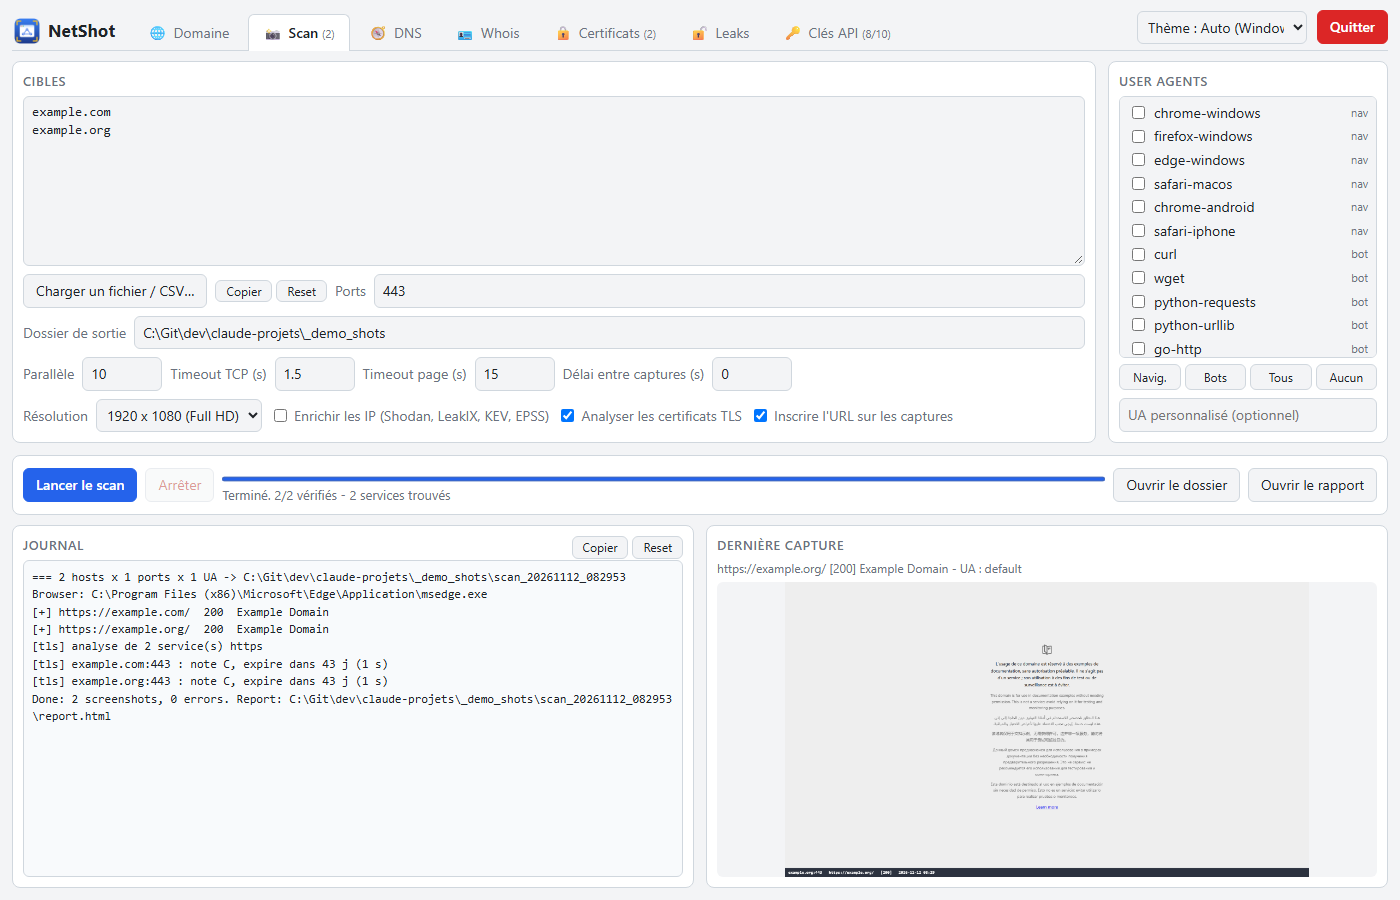
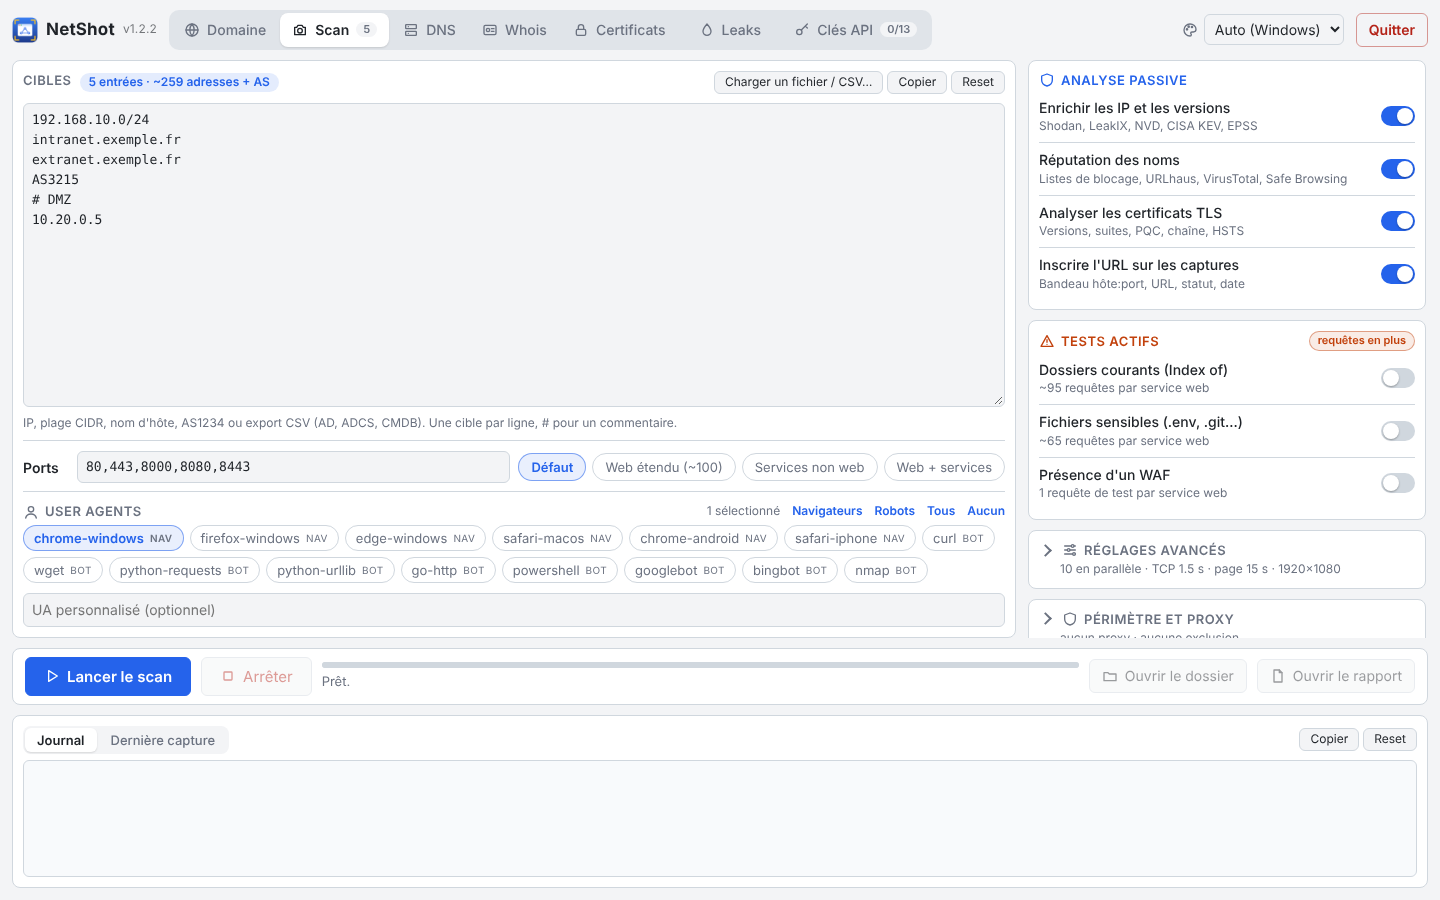
Interface 1.2.2 : autres onglets au style du Scan
- Titres avec icônes, encadré d'attente tant qu'il n'y a pas de résultat (Go)
- Sources en boutons à cocher, constats en pastilles colorées, grille des clés API (Go)
- Boutons principaux en bleu plein, aides et liens stylés, SoftButton supprimé (Python)
- Correctif : onglet DNS sans enregistrement (Go)
- Captures du README mises à jour ; détail dans CHANGELOG.md

Claude-Session: https://claude.ai/code/session_01DHXZEEBybHgq8eFqwoZAWK

diff --git a/cmd/netshot/gui.html b/cmd/netshot/gui.html
@@ -97,7 +97,7 @@ button.stop { color: var(--danger); }
 /* Quit: discreet, red only on hover */
 button.quit { background: transparent; color: var(--danger); border-color: color-mix(in srgb, var(--danger) 45%, transparent); font-weight: 600; }
 button.quit:hover:not(:disabled) { background: var(--quit); color: #ffffff; border-color: var(--quit); }
-.hint { color: var(--muted); font-size: 12px; word-break: break-all; }
+.hint { color: var(--muted); font-size: 12px; overflow-wrap: anywhere; }
 /* Copier / Reset pairs */
 .head { display: flex; align-items: center; gap: 8px; }
 .head h3 { margin: 0 0 6px; }
@@ -222,10 +222,49 @@ table.dns th, table.dns td { border-bottom: 1px solid var(--border); padding: 3p
 table.dns th { font-family: "Segoe UI", system-ui, sans-serif; color: var(--muted); font-weight: 600; position: sticky; top: 0; background: var(--panel); }
 table.dns td.data { word-break: break-all; }
 table.dns td.type { font-weight: 600; white-space: nowrap; }
-ul.findings { margin: 6px 0 0; padding-left: 18px; }
-ul.findings li.warn { color: var(--warn); }
-ul.findings li.good { color: var(--ok); }
-.key-label { min-width: 130px; }
+/* Findings: one pill each, colour = verdict */
+ul.findings { margin: 8px 0 4px; padding: 0; list-style: none; display: flex; flex-wrap: wrap; gap: 6px; }
+ul.findings li { font-size: 12px; border-radius: 999px; padding: 3px 10px; border: 1px solid var(--border);
+                 background: var(--bg); color: var(--text); }
+ul.findings li.warn { color: var(--warn); border-color: color-mix(in srgb, var(--warn) 45%, transparent);
+                      background: color-mix(in srgb, var(--warn) 9%, transparent); }
+ul.findings li.good { color: var(--ok); border-color: color-mix(in srgb, var(--ok) 45%, transparent);
+                      background: color-mix(in srgb, var(--ok) 9%, transparent); }
+/* Every tab: the panel fills the height; an empty state shows until the first result */
+.tab > .panel { flex: 1 1 0; min-height: 0; display: flex; flex-direction: column; overflow: auto; }
+.tab > .panel > h3:first-child { display: flex; align-items: center; gap: 8px; font-size: 14px; color: var(--text);
+                                 text-transform: none; letter-spacing: 0; }
+.tab > .panel > h3:first-child svg.i { color: var(--accent); width: 18px; height: 18px; }
+.result:not([hidden]) + .empty { display: none; }
+.empty { flex: 1 1 0; min-height: 140px; margin-top: 12px; display: flex; flex-direction: column; align-items: center;
+         justify-content: center; gap: 6px; text-align: center; color: var(--muted); border: 1px dashed var(--border);
+         border-radius: 10px; padding: 16px; }
+.empty svg.i { width: 28px; height: 28px; opacity: .7; }
+.empty b { color: var(--text); font-weight: 600; }
+.empty span { font-size: 13px; max-width: 520px; }
+/* Domaine: sources as chips; a source that needs a missing key is dashed */
+#ct-sources { gap: 6px; }
+#ct-sources label { display: inline-flex; gap: 6px; align-items: center; padding: 3px 10px; cursor: pointer; border-radius: 999px;
+                    border: 1px solid var(--border); background: var(--panel); font-size: 13px; color: var(--muted); }
+#ct-sources label:hover { border-color: var(--accent); }
+#ct-sources label:has(input:checked) { color: var(--accent); border-color: color-mix(in srgb, var(--accent) 55%, transparent);
+                                       background: color-mix(in srgb, var(--accent) 10%, transparent); font-weight: 600; }
+#ct-sources label.off { border-style: dashed; opacity: .75; cursor: help; }
+#ct-sources input { position: absolute; opacity: 0; width: 1px; height: 1px; }
+#ct-sources label:has(input:focus-visible) { outline: 2px solid var(--accent); outline-offset: 1px; }
+#ct-sources svg.i, .hint svg.i { width: 13px; height: 13px; vertical-align: -2px; }
+/* Tables */
+table.dns tbody tr:hover td { background: color-mix(in srgb, var(--accent) 6%, transparent); }
+table.dns th { text-transform: uppercase; font-size: 11px; letter-spacing: .04em; }
+/* API keys: name, status, field, link */
+#keys-list { display: grid; grid-template-columns: max-content max-content minmax(0, 1fr) max-content; gap: 5px 12px;
+             align-items: center; margin: 8px 0; }
+#keys-list .key-name { font-weight: 600; }
+#keys-list .key-state { font-size: 11px; font-weight: 600; border-radius: 999px; padding: 2px 9px; color: var(--muted);
+                        border: 1px solid var(--border); }
+#keys-list .key-state.on { color: var(--ok); border-color: color-mix(in srgb, var(--ok) 45%, transparent);
+                           background: color-mix(in srgb, var(--ok) 9%, transparent); }
+#keys-list input { width: 100%; }
 /* Certificates tab */
 table.tls td { font-family: "Segoe UI", system-ui, sans-serif; }
 table.tls tr.main { cursor: pointer; }
@@ -379,7 +418,7 @@ table.leaks td { white-space: nowrap; }
     <!-- Subdomains -->
     <div class="tab active" id="tab-subs">
       <section class="panel">
-        <h3>Domaine : sous-domaines depuis des sources passives (logs CT, DNS passif, archives)</h3>
+        <h3><svg class="i" aria-hidden="true" viewBox="0 0 24 24" fill="none" stroke="currentColor" stroke-width="2" stroke-linecap="round" stroke-linejoin="round"><circle cx="12" cy="12" r="9"/><path d="M3 12h18M12 3a14 14 0 0 1 0 18M12 3a14 14 0 0 0 0 18"/></svg>Sous-domaines depuis des sources passives (logs CT, DNS passif, archives)</h3>
         <div class="row">
           <label for="ct-domains">Domaines</label>
           <input type="text" id="ct-domains" class="grow" placeholder="exemple.fr, autre.com">
@@ -390,18 +429,19 @@ table.leaks td { white-space: nowrap; }
           <label title="Ignore les noms qui n'existent plus dans le DNS"><input type="checkbox" id="ct-resolve" checked> seulement les noms qui résolvent</label>
           <label title="Garde les noms qui pointent vers 10.x, 172.16-31.x, 192.168.x…"><input type="checkbox" id="ct-private"> seulement IP privées</label>
         </div>
-        <p class="hint">Les sources marquées 🔑 demandent une clé gratuite (onglet Clés API). Les noms trouvés sont ajoutés aux cibles de l'onglet Scan.</p>
+        <p class="hint">Les sources en pointillés <svg class="i" aria-hidden="true" viewBox="0 0 24 24" fill="none" stroke="currentColor" stroke-width="2" stroke-linecap="round" stroke-linejoin="round"><circle cx="8" cy="15" r="4"/><path d="M11 12l9-9M17 6l3 3"/></svg> demandent une clé gratuite (onglet Clés API). Les noms trouvés sont ajoutés aux cibles de l'onglet Scan.</p>
         <div class="result" id="ct-result" hidden>
           <div class="head"><h3 id="ct-title"></h3><span data-tools="subs"></span></div>
           <pre class="names" id="ct-names"></pre>
         </div>
+        <div class="empty"><svg class="i" aria-hidden="true" viewBox="0 0 24 24" fill="none" stroke="currentColor" stroke-width="2" stroke-linecap="round" stroke-linejoin="round"><circle cx="11" cy="11" r="7"/><path d="M20 20l-4-4"/></svg><b>Aucune recherche pour l'instant</b><span>Les sous-domaines trouvés s'afficheront ici et seront ajoutés aux cibles de l'onglet Scan.</span></div>
       </section>
     </div>
 
     <!-- DNS -->
     <div class="tab" id="tab-dns">
       <section class="panel">
-        <h3>Enregistrements DNS d'un domaine (comme dig)</h3>
+        <h3><svg class="i" aria-hidden="true" viewBox="0 0 24 24" fill="none" stroke="currentColor" stroke-width="2" stroke-linecap="round" stroke-linejoin="round"><rect x="4" y="4" width="16" height="6" rx="1"/><rect x="4" y="14" width="16" height="6" rx="1"/><path d="M8 7h.01M8 17h.01"/></svg>Enregistrements DNS d'un domaine (comme dig)</h3>
         <div class="row">
           <label for="dns-domain">Domaine</label>
           <input type="text" id="dns-domain" class="grow" placeholder="exemple.fr">
@@ -422,13 +462,14 @@ table.leaks td { white-space: nowrap; }
           <table class="dns"><thead><tr><th>Nom</th><th>TTL</th><th>Type</th><th>Valeur</th></tr></thead><tbody id="dns-rows"></tbody></table>
           <div class="hint" id="dns-errors"></div>
         </div>
+        <div class="empty"><svg class="i" aria-hidden="true" viewBox="0 0 24 24" fill="none" stroke="currentColor" stroke-width="2" stroke-linecap="round" stroke-linejoin="round"><rect x="4" y="4" width="16" height="6" rx="1"/><rect x="4" y="14" width="16" height="6" rx="1"/><path d="M8 7h.01M8 17h.01"/></svg><b>Aucun domaine interrogé</b><span>Enregistrements, constats SPF / DMARC / DKIM / CAA / DNSSEC et hôtes à ajouter aux cibles.</span></div>
       </section>
     </div>
 
     <!-- Whois -->
     <div class="tab" id="tab-whois">
       <section class="panel">
-        <h3>Whois : propriétaire d'un domaine, d'une IP ou d'un AS</h3>
+        <h3><svg class="i" aria-hidden="true" viewBox="0 0 24 24" fill="none" stroke="currentColor" stroke-width="2" stroke-linecap="round" stroke-linejoin="round"><rect x="3" y="5" width="18" height="14" rx="2"/><circle cx="9" cy="12" r="2.5"/><path d="M14 10h4M14 14h4"/></svg>Propriétaire d'un domaine, d'une IP ou d'un AS (Whois)</h3>
         <div class="row">
           <label for="whois-query">Domaine, IP ou AS</label>
           <input type="text" id="whois-query" class="grow" placeholder="exemple.fr, 8.8.8.8, AS3215">
@@ -444,13 +485,14 @@ table.leaks td { white-space: nowrap; }
             <div class="whois-col"><h3>WHOIS brut (port 43)</h3><pre class="names whois-scroll" id="whois-raw"></pre></div>
           </div>
         </div>
+        <div class="empty"><svg class="i" aria-hidden="true" viewBox="0 0 24 24" fill="none" stroke="currentColor" stroke-width="2" stroke-linecap="round" stroke-linejoin="round"><rect x="3" y="5" width="18" height="14" rx="2"/><circle cx="9" cy="12" r="2.5"/><path d="M14 10h4M14 14h4"/></svg><b>Aucune recherche Whois</b><span>Registrar, titulaire, dates et contacts (RDAP), avec le texte WHOIS brut à côté.</span></div>
       </section>
     </div>
 
     <!-- Certificates / TLS -->
     <div class="tab" id="tab-certs">
       <section class="panel">
-        <h3>Certificats et configuration TLS (comme sslscan)</h3>
+        <h3><svg class="i" aria-hidden="true" viewBox="0 0 24 24" fill="none" stroke="currentColor" stroke-width="2" stroke-linecap="round" stroke-linejoin="round"><rect x="5" y="11" width="14" height="9" rx="2"/><path d="M8 11V8a4 4 0 0 1 8 0v3"/></svg>Certificats et configuration TLS (comme sslscan)</h3>
         <div class="row" style="align-items:flex-start">
           <textarea id="tls-targets" style="min-height:70px;height:70px;flex:1" placeholder="Un point d'accès par ligne : hôte, hôte:port ou URL https (port 443 par défaut)&#10;intranet.local&#10;10.0.0.5:8443"></textarea>
           <div style="display:flex;flex-direction:column;gap:6px">
@@ -464,13 +506,14 @@ table.leaks td { white-space: nowrap; }
           <div class="head"><h3 id="tls-title"></h3><span data-tools="tls"></span></div>
           <table class="dns tls"><thead><tr><th>Cible</th><th>Note</th><th>Expiration</th><th>SSLv3</th><th>1.0</th><th>1.1</th><th>1.2</th><th>1.3</th><th>PQC</th><th>Clé</th><th>Émetteur</th><th>Confiance</th><th>HSTS</th><th>Alertes</th></tr></thead><tbody id="tls-rows"></tbody></table>
         </div>
+        <div class="empty"><svg class="i" aria-hidden="true" viewBox="0 0 24 24" fill="none" stroke="currentColor" stroke-width="2" stroke-linecap="round" stroke-linejoin="round"><rect x="5" y="11" width="14" height="9" rx="2"/><path d="M8 11V8a4 4 0 0 1 8 0v3"/></svg><b>Aucune analyse TLS</b><span>Lancer l'analyse ou reprendre les services https du dernier scan.</span></div>
       </section>
     </div>
 
     <!-- Leaks (LeakCheck) -->
     <div class="tab" id="tab-leaks">
       <section class="panel">
-        <h3>Fuites de données (LeakCheck)</h3>
+        <h3><svg class="i" aria-hidden="true" viewBox="0 0 24 24" fill="none" stroke="currentColor" stroke-width="2" stroke-linecap="round" stroke-linejoin="round"><path d="M12 3s6 7 6 11a6 6 0 0 1-12 0c0-4 6-11 6-11z"/></svg>Fuites de données (LeakCheck)</h3>
         <div class="row">
           <label for="leak-query">Recherche</label>
           <input type="text" id="leak-query" class="grow" placeholder="e-mail, identifiant, téléphone, hash ou domaine">
@@ -486,13 +529,14 @@ table.leaks td { white-space: nowrap; }
           <div class="head"><h3 id="leak-title"></h3><span data-tools="leaks"></span><button id="leak-export" style="padding:2px 10px;font-size:12px">Exporter CSV</button></div>
           <div class="leak-wrap"><table class="dns leaks"><thead><tr id="leak-head"></tr></thead><tbody id="leak-rows"></tbody></table></div>
         </div>
+        <div class="empty"><svg class="i" aria-hidden="true" viewBox="0 0 24 24" fill="none" stroke="currentColor" stroke-width="2" stroke-linecap="round" stroke-linejoin="round"><path d="M12 3s6 7 6 11a6 6 0 0 1-12 0c0-4 6-11 6-11z"/></svg><b>Aucune recherche de fuite</b><span>Clé LeakCheck requise (onglet Clés API). Seule la valeur recherchée est envoyée.</span></div>
       </section>
     </div>
 
     <!-- API keys -->
     <div class="tab" id="tab-keys">
       <section class="panel">
-        <h3>Clés API des services gratuits</h3>
+        <h3><svg class="i" aria-hidden="true" viewBox="0 0 24 24" fill="none" stroke="currentColor" stroke-width="2" stroke-linecap="round" stroke-linejoin="round"><circle cx="8" cy="15" r="4"/><path d="M11 12l9-9M17 6l3 3"/></svg>Clés API des services gratuits</h3>
         <p class="hint">Champ vide = garder la clé actuelle, « - » = l'effacer. <span id="keys-path"></span></p>
         <div id="keys-list"></div>
         <div class="row"><button id="keys-save" class="primary">Enregistrer les clés</button></div>
@@ -504,7 +548,7 @@ table.leaks td { white-space: nowrap; }
     <button id="start" class="primary"><svg class="i" aria-hidden="true" viewBox="0 0 24 24" fill="none" stroke="currentColor" stroke-width="2" stroke-linecap="round" stroke-linejoin="round"><path d="M7 4l13 8-13 8z"/></svg>Lancer le scan</button>
     <button id="stop" class="stop" disabled><svg class="i" aria-hidden="true" viewBox="0 0 24 24" fill="none" stroke="currentColor" stroke-width="2" stroke-linecap="round" stroke-linejoin="round"><rect x="6" y="6" width="12" height="12" rx="1"/></svg>Arrêter</button>
     <div class="spacer"><progress id="progress" value="0" max="1"></progress>
-      <div id="status">Prêt. Aucun UA coché = UA du navigateur.</div></div>
+      <div id="status">Prêt.</div></div>
     <button id="open-folder" disabled><svg class="i" aria-hidden="true" viewBox="0 0 24 24" fill="none" stroke="currentColor" stroke-width="2" stroke-linecap="round" stroke-linejoin="round"><path d="M3 7h6l2 2h10v10H3z"/></svg>Ouvrir le dossier</button>
     <button id="open-report" disabled><svg class="i" aria-hidden="true" viewBox="0 0 24 24" fill="none" stroke="currentColor" stroke-width="2" stroke-linecap="round" stroke-linejoin="round"><path d="M6 3h8l4 4v14H6z"/><path d="M14 3v4h4"/></svg>Ouvrir le rapport</button>
   </section>
@@ -649,7 +693,8 @@ function renderSources() {
     cb.value = s.name;
     cb.disabled = !usable;
     cb.checked = usable && (first ? s.default : checked.has(s.name) || (s.default && !keyStateOld[s.name] && keyState[s.name]));
-    lab.append(cb, " " + s.label + (s.slow ? " (lent)" : "") + (s.key === "required" && !usable ? " 🔑" : ""));
+    lab.append(cb, s.label + (s.slow ? " (lent)" : ""));
+    if (s.key === "required" && !usable) lab.insertAdjacentHTML("beforeend", "<svg class=\"i\" aria-hidden=\"true\" viewBox=\"0 0 24 24\" fill=\"none\" stroke=\"currentColor\" stroke-width=\"2\" stroke-linecap=\"round\" stroke-linejoin=\"round\"><circle cx=\"8\" cy=\"15\" r=\"4\"/><path d=\"M11 12l9-9M17 6l3 3\"/></svg>");
     if (!usable) lab.classList.add("off");
     box.appendChild(lab);
   }
@@ -662,23 +707,24 @@ function renderKeys(keys) {
   const list = $("keys-list");
   list.innerHTML = "";
   for (const k of keys) {
-    const row = document.createElement("div");
-    row.className = "row";
     const lab = document.createElement("label");
-    lab.className = "key-label";
+    lab.className = "key-name";
+    lab.htmlFor = "key-" + k.name;
     lab.textContent = k.label;
+    const state = document.createElement("span");
+    state.className = "key-state" + (k.set ? " on" : "");
+    state.textContent = k.set ? "configurée" : "absente";
     const input = document.createElement("input");
     input.type = "password";
-    input.className = "grow";
+    input.id = "key-" + k.name;
     input.dataset.name = k.name;
     input.autocomplete = "off";
     input.placeholder = k.set ? "configurée (vide = garder, - = effacer)" : "non configurée";
     const link = document.createElement("a");
     link.href = k.url;
     link.target = "_blank";
-    link.textContent = "obtenir";
-    row.append(lab, input, link);
-    list.appendChild(row);
+    link.textContent = k.set ? "compte" : "obtenir une clé";
+    list.append(lab, state, input, link);
   }
   renderSources();
 }
@@ -716,6 +762,15 @@ $("ct-run").onclick = async () => {
   }
 };
 
+// A finding as a pill: "⚠ …" = warning, "✓ …" = good; the sign itself is replaced by the colour
+function findingItem(f) {
+  const li = document.createElement("li");
+  li.className = f.startsWith("⚠") ? "warn" : f.startsWith("✓") ? "good" : "";
+  li.textContent = f.replace(/^[⚠✓]\s*/, "");
+  li.title = li.className === "warn" ? "Point d'attention" : li.className === "good" ? "Bon point" : "";
+  return li;
+}
+
 // --- DNS ----------------------------------------------------------------------------
 function cell(tr, text, cls) {
   const td = document.createElement("td");
@@ -734,19 +789,16 @@ $("dns-run").onclick = async () => {
     lastDNS = res;
     const rep = res.report;
     $("dns-result").hidden = false;
-    $("dns-title").textContent = `${rep.domain} - ${rep.records.length} enregistrements (serveur ${rep.server || "?"})`;
+    $("dns-title").textContent = `${rep.domain} - ${(rep.records || []).length} enregistrements (serveur ${rep.server || "?"})`;
     $("dns-any").textContent = rep.any_note + (rep.any && rep.any.length ? " : " + rep.any.map(r => r.type + " " + r.data).join(" | ") : "");
     const ul = $("dns-findings");
     ul.innerHTML = "";
     for (const f of rep.findings || []) {
-      const li = document.createElement("li");
-      li.textContent = f;
-      li.className = f.startsWith("⚠") ? "warn" : f.startsWith("✓") ? "good" : "";
-      ul.appendChild(li);
+      ul.appendChild(findingItem(f));
     }
     const tbody = $("dns-rows");
     tbody.innerHTML = "";
-    for (const r of rep.records) {
+    for (const r of rep.records || []) {
       const tr = document.createElement("tr");
       cell(tr, r.name);
       cell(tr, r.ttl);
@@ -755,7 +807,7 @@ $("dns-run").onclick = async () => {
       tbody.appendChild(tr);
     }
     $("dns-errors").textContent = (rep.errors || []).length ? "Erreurs : " + rep.errors.join(" · ") : "";
-    log(`[dns] ${rep.domain} : ${rep.records.length} enregistrements, ${(rep.findings || []).filter(f => f.startsWith("⚠")).length} point(s) d'attention`);
+    log(`[dns] ${rep.domain} : ${(rep.records || []).length} enregistrements, ${(rep.findings || []).filter(f => f.startsWith("⚠")).length} point(s) d'attention`);
   } finally {
     btn.disabled = false;
     btn.textContent = "Interroger";
@@ -790,8 +842,7 @@ $("whois-run").onclick = async () => {
     const ul = $("whois-findings");
     ul.innerHTML = "";
     for (const f of rep.findings) {
-      const li = el("li", f.startsWith("⚠") ? "warn" : f.startsWith("✓") ? "good" : "", f);
-      ul.append(li);
+      ul.append(findingItem(f));
     }
     for (const e of rep.errors) ul.append(el("li", "warn", "Erreur : " + e));
     const tbody = $("whois-rows");

diff --git a/cmd/netshot/version.go b/cmd/netshot/version.go
@@ -2,4 +2,4 @@ package main
 
 // version of NetShot, kept in step with CHANGELOG.md. A build can override it:
 // go build -ldflags "-X main.version=1.2.0"
-var version = "1.2.1"
+var version = "1.2.2"

diff --git a/CHANGELOG.md b/CHANGELOG.md
@@ -3,6 +3,38 @@
 Format inspiré de [Keep a Changelog](https://keepachangelog.com/fr/1.1.0/). La version Python a son
 propre journal dans le dépôt [Netshot](https://github.com/Wr1ghtShade/Netshot).
 
+## [1.2.2] - 2026-11-13
+
+Refonte de l'interface, étape 2 : les autres onglets prennent le style de l'onglet Scan (même
+étape que la version Python 1.2.2).
+
+### Modifié
+- Titres d'onglet (Domaine, DNS, Whois, Certificats, Leaks, Clés API) avec leur icône au trait.
+- Chaque onglet occupe toute la hauteur ; tant qu'il n'y a pas de résultat, un encadré explique ce
+  qui s'affichera (Domaine, DNS, Whois, Certificats, Leaks). Fini le grand vide sous le formulaire.
+- **Domaine** : sources en boutons à cocher ; une source dont la clé manque est en pointillés,
+  avec une icône de clé à la place de l'emoji 🔑.
+- **DNS et Whois** : constats en pastilles colorées (orange = point d'attention, vert = bon point,
+  gris = neutre) ; les signes ⚠ / ✓ sont remplacés par la couleur.
+- **Tableaux** : en-têtes en petites capitales, ligne surlignée au survol.
+- **Clés API** : une grille nom / état (« configurée » en vert, « absente ») / champ / lien
+  (« obtenir une clé » ou « compte »).
+- Les aides ne coupent plus les mots en plein milieu.
+- Statut initial de la barre d'action : « Prêt. » (le nombre d'UA est affiché à côté de la liste).
+- Capture du README mise à jour.
+
+### Corrigé
+- Onglet DNS : erreur JavaScript quand un domaine ne renvoie aucun enregistrement (liste vide
+  renvoyée en `null`).
+
+### Fichiers
+- `cmd/netshot/gui.html`, `version.go`, `README.md`, `docs/netshot-go.png`.
+
+### Tests
+- `go vet`, `go test`.
+- Chaque onglet ouvert dans Chrome headless (thème clair et sombre), requête DNS lancée depuis
+  l'interface, scan complet sur une page locale ; aucune erreur JavaScript.
+
 ## [1.2.1] - 2026-11-13
 
 Refonte de l'interface, étape 1 : en-tête et onglet Scan, d'après la maquette validée (même

diff --git a/README.md b/README.md
@@ -6,7 +6,7 @@ passives (logs Certificate Transparency, DNS passif, archives web). Les IP trouv
 avec des sources gratuites (ports et CVE connus, fuites, priorisation KEV / EPSS).
 Un seul exécutable portable, sans installation.
 
-![NetShot (Go) : onglet Scan après une capture de example.com et example.org](docs/netshot-go.png)
+![NetShot (Go) : onglet Scan (version 1.2.2)](docs/netshot-go.png)
 
 ## 📁 Organisation du dossier
 
